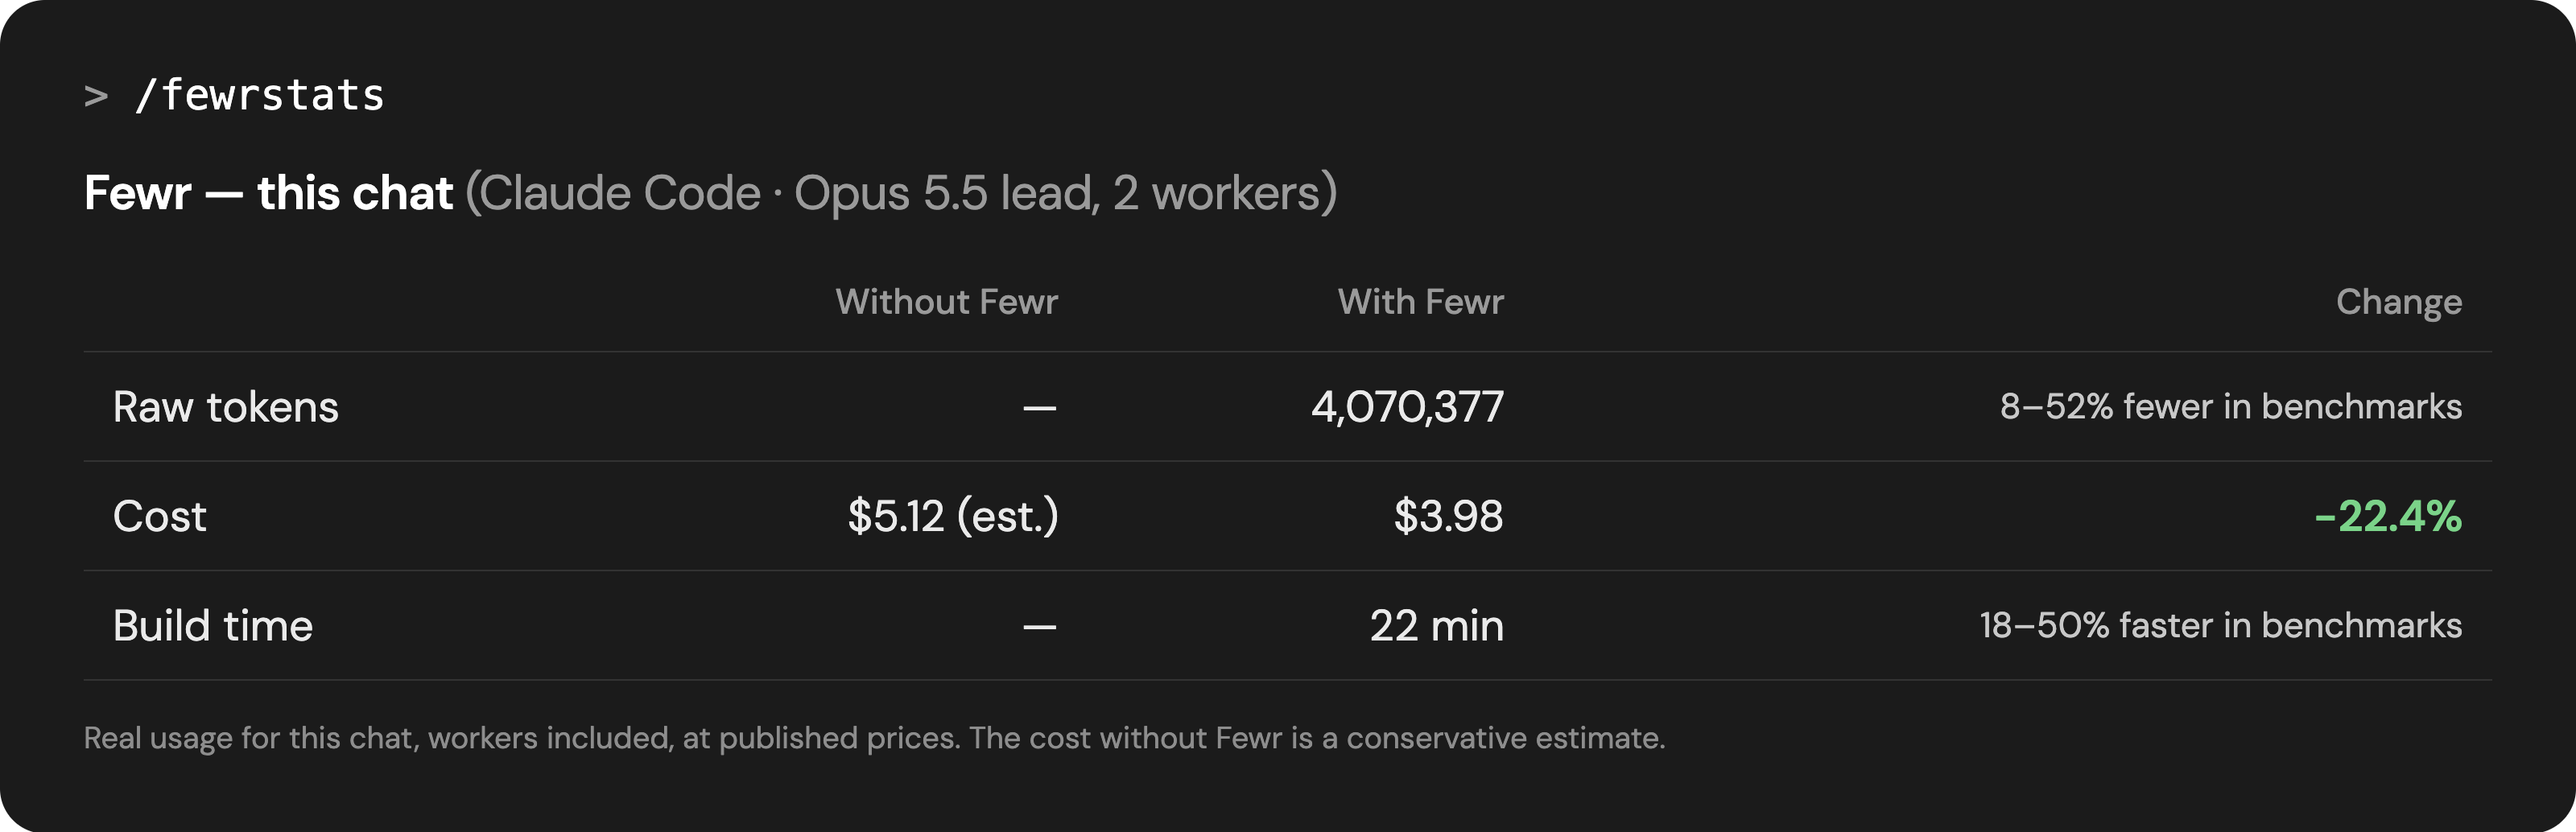
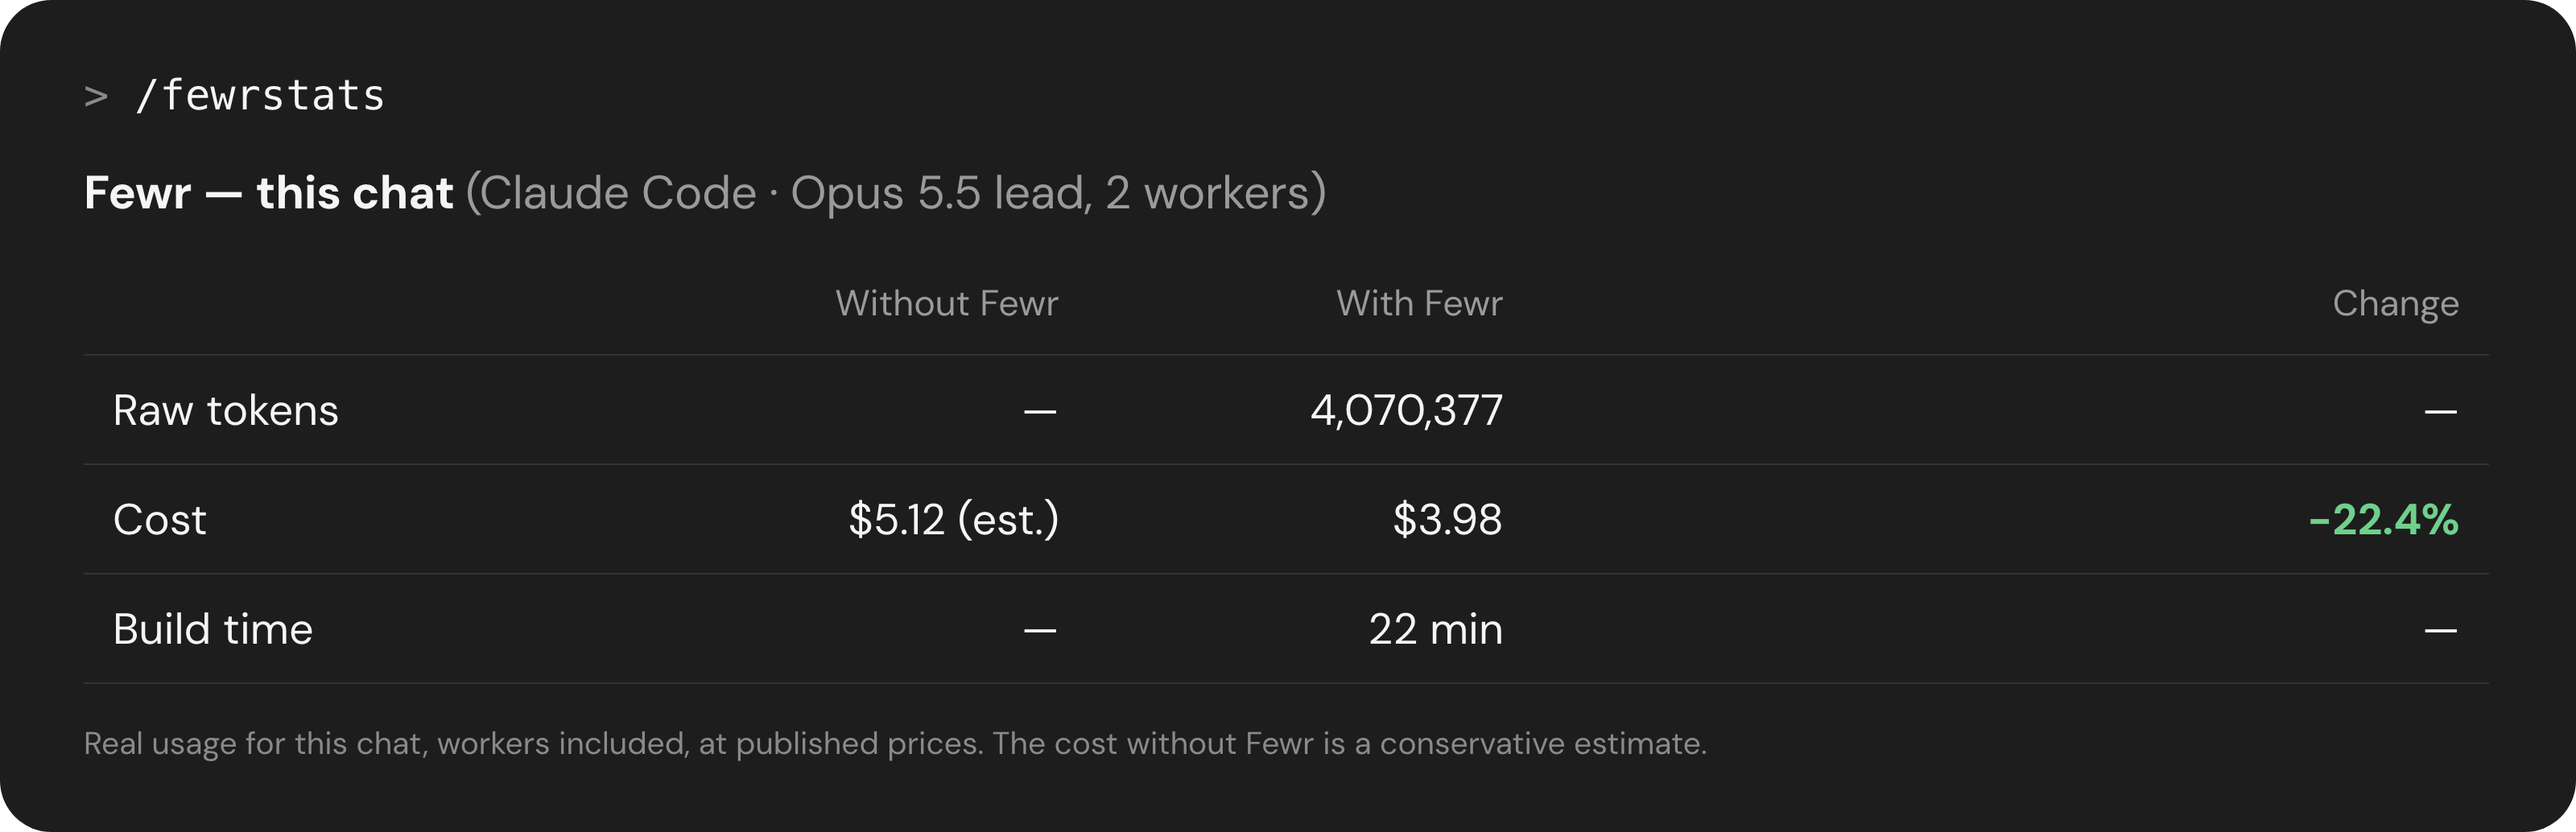
fewrstats: estimate raw tokens and build time without Fewr; never use a worker pricier than the lead
Raw tokens and build time use the cost estimate's model: the lead doing the
workers' jobs in its own context, at its measured writing pace. Against the
benchmark pairs both stayed under the real run without Fewr on 7-8 of 9.
Chats where Fewr was not active show no estimate.

A PreToolUse hook blocks any Agent call whose model costs more than the
lead's current model, and the brief tells a Haiku/Luna lead not to delegate.

diff --git a/package/README.md b/package/README.md
@@ -65,12 +65,12 @@ $fewrstats
 ```
 | | Without Fewr | With Fewr | Change |
 | :-- | --: | --: | --: |
-| Raw tokens | — | 4,070,377 | 8–52% fewer on 5 of 6 benchmark tasks |
+| Raw tokens | — | 4,070,377 | — |
 | Cost | $5.12 (est.) | $3.98 | −22.4% |
-| Build time | — | 22 min | 18–50% faster on 5 of 6 benchmark tasks |
+| Build time | — | 22 min | — |
 ```
 
-"With Fewr" is the chat's real usage, workers included, at published prices. A chat has no measured run without Fewr, so that cost is a conservative estimate: the lower of two models of the same work done by your model alone. In benchmarks, it stayed under the real cost without Fewr on 5 of 6 tasks. Raw tokens and build time have no reliable per-chat estimate, so their change shows the benchmark result.
+"With Fewr" is the chat's real usage, workers included, at published prices. A chat has no measured run without Fewr, so that cost is a conservative estimate: the lower of two models of the same work done by your model alone. In benchmarks, it stayed under the real cost without Fewr on 5 of 6 tasks. Raw tokens and build time have no reliable per-chat estimate without Fewr, so they show this chat's figures only.
 
 From a terminal:
 
